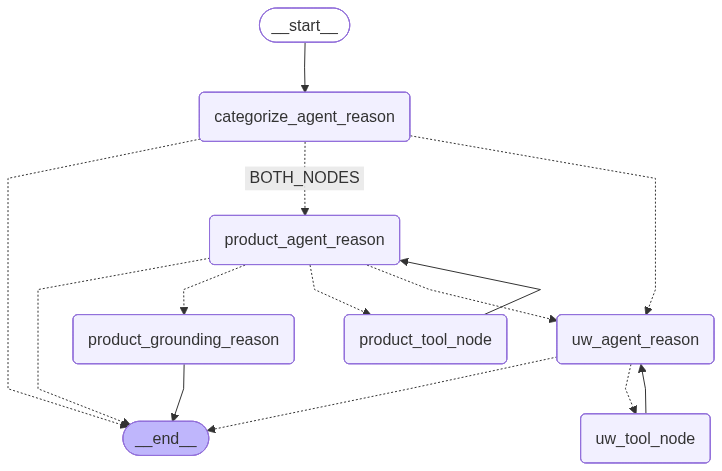
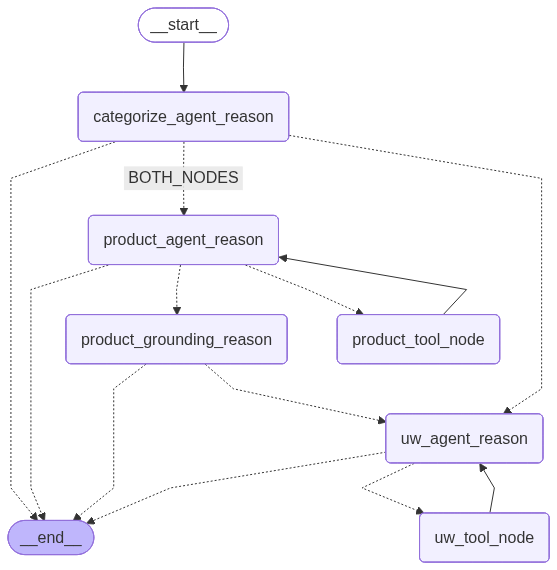
both uW and rag added backup code, not working - minor errors

diff --git a/app/node_functions/node_functions.py b/app/node_functions/node_functions.py
@@ -2,7 +2,7 @@ from typing import TypedDict, Annotated, Any, Dict, Optional,List
 
 from pydantic import BaseModel, Field
 from langchain_core.messages import BaseMessage, HumanMessage, ToolMessage, AIMessage
-from langgraph.graph.message import add_messages
+
 from dotenv import load_dotenv
 from langgraph.graph import MessagesState, StateGraph,END
 from langgraph.prebuilt import ToolNode
@@ -14,27 +14,8 @@ from app.node_functions.chains.categorize_chain import categorize_chain
 from app.node_functions.chains.product_chain import product_grounding_chain,product_rag_chain
 from app.node_functions.chains.tools.tools import uw_tools,product_rag_tools
 from app.node_functions.chains.tools.models.constants import LAST,FIRST
+from app.node_functions.chains.tools.models.state_graph_models import MedicareMessageGraph,ProductAgentResponse,GroundingAgentResponse
 
-# class MessageGraph(TypedDict):
-#     messages: Annotated[list[BaseMessage], add_messages]
-
-class Audit(BaseModel):
-    source:Optional[str]
-    page_number:Optional[str]
-class ProductAgentResponse(BaseModel):
-    answer: Optional[str] = ""
-    audit: Optional[List[Audit]] = Field(default_factory=list)
-class MedicareMessageGraph(TypedDict):
-    messages: Annotated[list[BaseMessage], add_messages]
-    # Input from the user
-    user_query: Optional[str]
-    error_message: Optional[str]
-    # Output from the categorizer
-    agent_category: Optional[str]
-    # Output from the product agent
-    product_response: Optional[ProductAgentResponse]
-    # Output from the eligibility/underwriting agent
-    underwriting_response: Optional[str]
 
 def categorize_agent_reason(state: MedicareMessageGraph):
     response = categorize_chain.invoke({"categorize_messages": state["messages"]})
@@ -43,27 +24,24 @@ def categorize_agent_reason(state: MedicareMessageGraph):
 def product_agent_reason(state: MedicareMessageGraph):
     response = product_rag_chain.invoke({"product_rag_messages": state["messages"]})
     if isinstance(state["messages"][LAST], ToolMessage):
-        aa = ProductAgentResponse()
-        aa.answer = response.content
-        # aa.audit = [{
-        #         "source": "source",
-        #         "page_number": "MY_page_number"
-        #     }]
-        # state["product_response"] = "not there yet"
+        product_agent_response = ProductAgentResponse()
+        product_agent_response.answer = response.content
         for artifact in state["messages"][LAST].artifact:
-            aa.audit.append({
+            product_agent_response.audit.append({
                 "source": artifact.metadata["source"],
                 "page_number": artifact.metadata["MY_page_number"]
             })
-        return {"messages": [product_rag_chain.invoke({"product_rag_messages": state["messages"]})],
-                "product_response": aa}
+        # return {"messages": [product_rag_chain.invoke({"product_rag_messages": state["messages"]})],
+        #         "product_response": product_agent_response}
+        return {"messages": [response],
+                "product_response": product_agent_response}
 
-    return {"messages": [product_rag_chain.invoke({"product_rag_messages": state["messages"]})]}
+    return {"messages": [response]}
+    # return {"messages": [product_rag_chain.invoke({"product_rag_messages": state["messages"]})]}
 
 def uw_agent_reason(state: MedicareMessageGraph):
     # write code to update the agent response in the State Message
     return {"messages": [uw_chain.invoke({"uw_messages": state["messages"]})]}
-
 
 def has_tool_message(result):
     # Case 1: result is a single message
@@ -87,17 +65,16 @@ def product_grounding_reason(state: MedicareMessageGraph):
         context = tool_msg.content
     print("***********************      question, answer, context     *****************************")
     print(question, answer, context)
-    result = [product_grounding_chain.invoke({
+    result = product_grounding_chain.invoke({
             "question": state["messages"],
             "context": context,
-            "answer": answer})]
-    return result
-    # return {
-    #     "messages": [product_grounding_chain.invoke({
-    #         "question": state["messages"],
-    #         "context": context,
-    #         "answer": answer})]
-    # }
+            "answer": answer})
+    grounding_answer = GroundingAgentResponse(
+        is_grounded=result.is_grounded,
+        grounding_agent_answer=result.grounding_agent_answer )
+    # grounding_answer.is_grounded = result[0].is_grounded
+    # grounding_answer.grounding_agent_answer = result[0].grounding_agent_answer
+    return {"grounding_agent_response": grounding_answer}
 
 # defining the tool_nodes
 uw_tool_node = ToolNode(uw_tools)

diff --git a/app/medicare_agent_graph.py b/app/medicare_agent_graph.py
@@ -41,11 +41,18 @@ def after_product_router(state: MedicareMessageGraph) -> str:
         if category == "PRODUCT":
             return PRODUCT_GROUNDING_REASON
         elif category == "BOTH":
-            return UW_AGENT_REASON
+            return PRODUCT_GROUNDING_REASON
         else:
             return END
-        # return RAG_GROUNDING_REASON
     return PRODUCT_TOOL_NODE
+def after_grounded_router(state: MedicareMessageGraph) -> str:
+    category = state.get("agent_category")
+    if category == "PRODUCT":
+        return END
+    elif category == "BOTH":
+        return UW_AGENT_REASON
+    else:
+        return END
 
 def after_uw_router(state: MedicareMessageGraph) -> str:
     if not state["messages"][LAST].tool_calls:
@@ -70,15 +77,17 @@ medicare_graph.add_conditional_edges(CATEGORIZE_AGENT_REASON, after_categorize_r
     BOTH:PRODUCT_AGENT_REASON})
 medicare_graph.add_conditional_edges(PRODUCT_AGENT_REASON, after_product_router, {
     END:END,
-    UW_AGENT_REASON:UW_AGENT_REASON,
     PRODUCT_GROUNDING_REASON:PRODUCT_GROUNDING_REASON,
     PRODUCT_TOOL_NODE:PRODUCT_TOOL_NODE})
 medicare_graph.add_conditional_edges(UW_AGENT_REASON, after_uw_router, {
     END:END,
     UW_TOOL_NODE:UW_TOOL_NODE})
-medicare_graph.add_edge(PRODUCT_GROUNDING_REASON,END)
 medicare_graph.add_edge(UW_TOOL_NODE, UW_AGENT_REASON)
 medicare_graph.add_edge(PRODUCT_TOOL_NODE, PRODUCT_AGENT_REASON)
+medicare_graph.add_conditional_edges(PRODUCT_GROUNDING_REASON,after_grounded_router, {
+    END:END,
+    UW_AGENT_REASON:UW_AGENT_REASON
+})
 
 medicare_graph = medicare_graph.compile()
 medicare_graph.get_graph().draw_mermaid_png(output_file_path="medicare_flow_2.png")
@@ -93,8 +102,8 @@ def run_graph(query: str) -> MedicareMessageGraph:
 if __name__ == "__main__":
     print("Hello from Medicare Agent")
     uw_query = "Evaluate the Medicare application. Its for state of Georgia, the start date of the medicare insurance is from 1st February 2026."
-    # product_query = "I’m looking at Plan N and Plan G. If my doctor does not accept 'assignment' and charges more than the Medicare-approved amount, which plan protects me from the balance bill"
-    product_query = "Details of Plan N "
+    product_query = "I’m looking at Plan N and Plan G. If my doctor does not accept 'assignment' and charges more than the Medicare-approved amount, which plan protects me from the balance bill"
+    # product_query = "Details of Plan N "
 
     combined_query="yet to add one"
     dummy_query = "hi"

diff --git a/app/node_functions/chains/product_chain.py b/app/node_functions/chains/product_chain.py
@@ -7,6 +7,7 @@ from langchain_openai import ChatOpenAI
 # project internal imports
 from app.node_functions.chains.tools.models.constants import LAST,FIRST,PRODUCT_AGENT_MODEL,PRODUCT_GROUNDING_MODEL
 from app.node_functions.chains.tools.tools import product_rag_tools
+from app.node_functions.chains.tools.models.state_graph_models import GroundingAgentResponse
 
 
 product_rag_prompt = ChatPromptTemplate.from_messages(
@@ -40,7 +41,7 @@ product_grounding_prompt = ChatPromptTemplate.from_messages(
     - Determine whether the candidate answer is fully supported by the provided context.
     - If the answer contains any information that is not explicitly supported by the context, mark it as NOT GROUNDED.
     - If the answer is grounded, return it unchanged.
-    - If the answer is not grounded, rewrite a corrected answer using ONLY the information found in the context. If the context does not contain enough information, respond with: "The context does not provide enough information to answer this question."
+    - If the answer is not grounded, rewrite a corrected answer using ONLY the information found in the context. If the context does not contain enough information, respond with: "The context does not provide enough information to answer this question. PLease call Helpdesk"
 
     Rules:
     - Do NOT add new facts.
@@ -68,7 +69,8 @@ product_grounding_prompt = ChatPromptTemplate.from_messages(
         # MessagesPlaceholder(variable_name="product_grounding_messages"),
     ]
 )
-product_grounding_llm = ChatOpenAI(model=PRODUCT_GROUNDING_MODEL, temperature=0)
+# product_grounding_llm = ChatOpenAI(model=PRODUCT_GROUNDING_MODEL, temperature=0)
+product_grounding_llm = ChatOpenAI(model=PRODUCT_GROUNDING_MODEL, temperature=0).with_structured_output(GroundingAgentResponse)
 product_grounding_chain = (
         {
             "question": lambda x: x["question"],

diff --git a/app/node_functions/chains/tools/models/state_graph_models.py b/app/node_functions/chains/tools/models/state_graph_models.py
@@ -1,0 +1,30 @@
+
+from typing import TypedDict, Annotated, Any, Dict, Optional,List
+from pydantic import BaseModel, Field
+from langchain_core.messages import BaseMessage
+from langgraph.graph.message import add_messages
+
+# class MessageGraph(TypedDict):
+#     messages: Annotated[list[BaseMessage], add_messages]
+
+class Audit(BaseModel):
+    source:Optional[str]
+    page_number:Optional[str]
+class ProductAgentResponse(BaseModel):
+    answer: Optional[str] = ""
+    audit: Optional[List[Audit]] = Field(default_factory=list)
+class GroundingAgentResponse(BaseModel):
+    is_grounded:Optional[bool]  = Field(default="", description="Whether the answer is grounded in retrieved evidence.")
+    grounding_agent_answer:Optional[str] = Field(default="", description="The final natural-language answer")
+class MedicareMessageGraph(TypedDict):
+    messages: Annotated[list[BaseMessage], add_messages]
+    # Input from the user
+    user_query: Optional[str]
+    error_message: Optional[str]
+    # Output from the categorizer
+    agent_category: Optional[str]
+    # Output from the product agent
+    product_response: Optional[ProductAgentResponse]
+    # Output from the eligibility/underwriting agent
+    underwriting_response: Optional[str]
+    grounding_agent_response: Optional[GroundingAgentResponse]

diff --git a/app/node_functions/chains/tools/models/constants.py b/app/node_functions/chains/tools/models/constants.py
@@ -10,7 +10,7 @@ RAG_EMBEDDING_MODEL="text-embedding-3-small"
 UW_AGENT_MODEL="gpt-3.5-turbo"
 CATEGORIZE_AGENT_MODEL="gpt-3.5-turbo"
 PRODUCT_AGENT_MODEL="gpt-3.5-turbo"
-PRODUCT_GROUNDING_MODEL="gpt-3.5-turbo"
+PRODUCT_GROUNDING_MODEL="gpt-4o-mini"
 EMBEDDING_MODEL="text-embedding-3-small"
 PRODUCT_VECTOR_INDEX_NAME="medicare-docs"
 K=4
